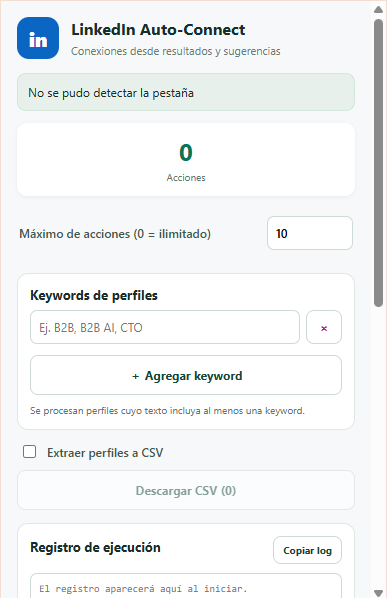
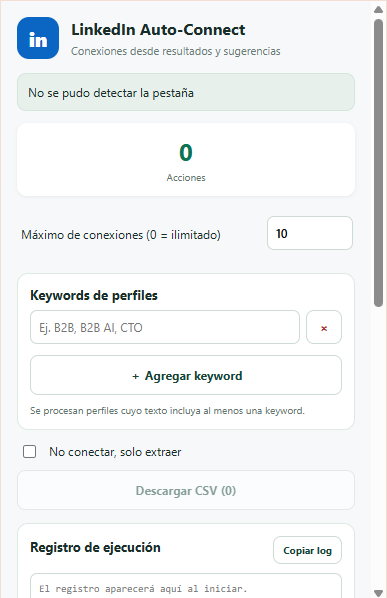
Make CSV extraction default with extract-only mode

Changed region(s): [[0.031, 0.3612, 0.5891, 0.4214], [0.124, 0.7224, 0.4651, 0.7826]]

diff --git a/popup.js b/popup.js
@@ -1,9 +1,9 @@
 const els = {
   page: document.getElementById("page"), status: document.getElementById("status"),
-  total: document.getElementById("total"),
+  total: document.getElementById("total"), progressLabel: document.getElementById("progressLabel"), limitLabel: document.getElementById("limitLabel"),
   limit: document.getElementById("limit"), start: document.getElementById("start"), stop: document.getElementById("stop"),
   keywords: document.getElementById("keywords"), addKeyword: document.getElementById("addKeyword"),
-  extractCsv: document.getElementById("extractCsv"), downloadCsv: document.getElementById("downloadCsv"),
+  extractOnly: document.getElementById("extractOnly"), downloadCsv: document.getElementById("downloadCsv"),
   logOutput: document.getElementById("logOutput"), copyLog: document.getElementById("copyLog")
 };
 const setStatus = (message) => { els.status.textContent = message; };
@@ -18,7 +18,7 @@ function addKeywordRow(value = "") {
 function saveSettings() {
   chrome.storage.local.set({ ceoAutoSettings: {
     keywords: [...els.keywords.querySelectorAll("input")].map((i) => i.value.trim()).filter(Boolean),
-    extractCsv: els.extractCsv.checked, limit: els.limit.value
+    extractOnly: els.extractOnly.checked, limit: els.limit.value
   } });
 }
 chrome.storage.local.get("ceoAutoSettings", ({ ceoAutoSettings: s = {} }) => {
@@ -26,11 +26,16 @@ chrome.storage.local.get("ceoAutoSettings", ({ ceoAutoSettings: s = {} }) => {
     s.keywords[0].toLowerCase() === "ceo" && s.keywords[1].toLowerCase() === "founder";
   if (legacyDefaults) { s.keywords = []; chrome.storage.local.set({ ceoAutoSettings: s }); }
   (s.keywords?.length ? s.keywords : [""]).forEach(addKeywordRow);
-  els.extractCsv.checked = !!s.extractCsv;
+  els.extractOnly.checked = !!s.extractOnly;
+  updateProgressLabel();
   if (s.limit !== undefined) els.limit.value = s.limit;
 });
 els.addKeyword.addEventListener("click", () => { addKeywordRow(); els.keywords.lastElementChild.querySelector("input").focus(); saveSettings(); });
-els.extractCsv.addEventListener("change", saveSettings); els.limit.addEventListener("change", saveSettings);
+function updateProgressLabel() {
+  els.progressLabel.textContent = els.extractOnly.checked ? "Perfiles extraídos" : "Conexiones";
+  els.limitLabel.textContent = els.extractOnly.checked ? "Máximo de perfiles (0 = ilimitado)" : "Máximo de conexiones (0 = ilimitado)";
+}
+els.extractOnly.addEventListener("change", () => { saveSettings(); updateProgressLabel(); }); els.limit.addEventListener("change", saveSettings);
 
 async function checkPage() {
   try {
@@ -46,12 +51,12 @@ async function runOnPage(func, args = []) {
   const results = await chrome.scripting.executeScript({ target: { tabId: tab.id }, func, args }); return results?.[0]?.result;
 }
 
-function startAutomation(maxActions, keywords, extractCsv) {
+function startAutomation(maxActions, keywords, extractOnly) {
   if (window.__ceoAutoFollow?.running) return { started: false };
   const state = { running: true, stopped: false, count: 0, max: maxActions, rows: [], logs: [], message: "Preparando resultados…" };
   window.__ceoAutoFollow = state;
   const log = (message) => { state.logs.push(`${new Date().toLocaleTimeString()} ${message}`); if (state.logs.length > 250) state.logs.splice(0, state.logs.length - 250); };
-  log(`Inicio · página ${location.href} · keywords: ${keywords.join(", ")} · CSV: ${extractCsv ? "sí" : "no"}`);
+  log(`Inicio · página ${location.href} · keywords: ${keywords.join(", ")} · CSV: sí · modo=${extractOnly ? "solo extraer" : "conectar y extraer"}`);
   const normalized = keywords.map((k) => k.toLocaleLowerCase()).filter(Boolean);
   const clicked = new WeakSet(); const seenProfiles = new Set(); const sleep = (ms) => new Promise((r) => setTimeout(r, ms));
   const visible = (el) => { const r = el.getBoundingClientRect(), s = getComputedStyle(el); return r.width > 0 && r.height > 0 && s.visibility !== "hidden" && s.display !== "none"; };
@@ -219,7 +224,7 @@ function startAutomation(maxActions, keywords, extractCsv) {
     return false;
   };
   const extractRow = (card, text, href) => {
-    if (!extractCsv || !href || state.rows.some((r) => r.link === href)) return;
+    if (!href || state.rows.some((r) => r.link === href)) return;
     const anchors = [...card.querySelectorAll("a[href*='/in/']")];
     const name = (anchors.find((a) => a.href.split("?")[0] === href)?.innerText || "").trim().split("\n")[0];
     const lines = text.split("\n").map((x) => x.trim()).filter(Boolean);
@@ -279,7 +284,8 @@ function startAutomation(maxActions, keywords, extractCsv) {
       if (showAll) { showAll.click(); await sleep(1200); log("Expandido Show all antes de recorrer tarjetas."); }
       let idle = 0, bottomRounds = 0;
       const noConnectLogged = new Set();
-      while (!state.stopped && (state.max === 0 || state.count < state.max)) {
+      const limitReached = () => state.max > 0 && (extractOnly ? state.rows.length >= state.max : state.count >= state.max);
+      while (!state.stopped && !limitReached()) {
         if (checkLimits()) break;
         const exactContactCards = [...document.querySelectorAll(contactCardSelector)];
         const cards = isSearch && exactContactCards.length
@@ -291,7 +297,7 @@ function startAutomation(maxActions, keywords, extractCsv) {
         log(`Escaneo · ${cards.length} contenedores de ficha detectados; inspeccionando coincidencias visibles.`);
         let didAction = false;
         for (const card of cards) {
-          if (state.stopped || (state.max && state.count >= state.max)) break;
+          if (state.stopped || limitReached()) break;
           const text = getCardText(card), keywordText = getKeywordText(card), normalizedText = keywordText.toLocaleLowerCase();
           if (!keywordText.trim()) continue;
           const matchedKeyword = normalized.find((word) => normalizedText.includes(word.toLocaleLowerCase()));
@@ -299,6 +305,14 @@ function startAutomation(maxActions, keywords, extractCsv) {
           const href = profileHref(card);
           log(`Coincidencia · keyword="${matchedKeyword}" · titular/cargo/Current="${keywordText.replace(/\s+/g, " ").slice(0, 180)}" · perfil=${href || "sin enlace"}`);
           if (href && !state.rows.some((r) => r.link === href)) extractRow(card, text, href);
+          if (extractOnly) {
+            if (href && state.rows.some((r) => r.link === href)) {
+              state.message = `Perfil extraído · ${state.rows.length}${state.max ? ` de ${state.max}` : ""}`;
+              log(`Solo extracción · perfil agregado al CSV · total=${state.rows.length}${state.max ? `/${state.max}` : ""}.`);
+            } else log("Solo extracción · ficha coincidente sin enlace de perfil; no se pudo agregar al CSV.");
+            if (limitReached()) break;
+            continue;
+          }
           if (href && seenProfiles.has(href)) continue;
           const control = getActionControl(card, cards.indexOf(card), cards);
           if (!control) {
@@ -347,8 +361,12 @@ function startAutomation(maxActions, keywords, extractCsv) {
         }
         if (idle >= 8 && !isSearch && scroll.atBottom) { state.message = "No hay más acciones visibles por ahora."; log(state.message); idle = 0; await sleep(2200); }
       }
-      if (!state.stopped && (state.max === 0 || state.count < state.max) && !/No se encontró/.test(state.message)) state.message = `Límite alcanzado: ${state.count} acciones.`;
-      else if (state.max && state.count >= state.max) state.message = `Límite alcanzado: ${state.count} acciones.`;
+      if (!state.stopped && limitReached()) state.message = extractOnly
+        ? `Límite alcanzado: ${state.rows.length} perfiles extraídos.`
+        : `Límite alcanzado: ${state.count} conexiones.`;
+      else if (!state.stopped && !/No se encontró/.test(state.message)) state.message = extractOnly
+        ? `Extracción finalizada: ${state.rows.length} perfiles.`
+        : `Conexiones finalizadas: ${state.count}.`;
     } catch (e) { state.message = `Se detuvo por un error: ${e?.message || "desconocido"}`; log(`ERROR · ${e?.stack || e?.message || String(e)}`); }
     finally { state.running = false; log(`Fin · ${state.message} · acciones=${state.count} · CSV=${state.rows.length}`); }
   })();
@@ -358,7 +376,7 @@ function stopAutomation() { const s = window.__ceoAutoFollow; if (!s) return { r
 function getAutomationStatus() { const s = window.__ceoAutoFollow; return s ? { running: s.running, count: s.count, rows: s.rows, logs: s.logs, message: s.message } : null; }
 async function refreshStatus() {
   try { const s = await runOnPage(getAutomationStatus); if (!s) return;
-    els.total.textContent = s.count;
+    els.total.textContent = els.extractOnly.checked ? (s.rows?.length || 0) : s.count;
     els.downloadCsv.textContent = `Descargar CSV (${s.rows?.length || 0})`; els.downloadCsv.disabled = !(s.rows?.length);
     const logText = (s.logs || []).join("\n");
     if (els.logOutput.value !== logText) { const wasAtBottom = els.logOutput.scrollTop + els.logOutput.clientHeight >= els.logOutput.scrollHeight - 8; els.logOutput.value = logText; if (wasAtBottom) els.logOutput.scrollTop = els.logOutput.scrollHeight; }
@@ -370,7 +388,7 @@ els.start.addEventListener("click", async () => {
   const keywords = [...els.keywords.querySelectorAll("input")].map((i) => i.value.trim()).filter(Boolean);
   if (!keywords.length) { setStatus("Agrega al menos una keyword para iniciar."); return; }
   saveSettings(); els.start.disabled = true; setStatus("Iniciando la búsqueda…");
-  try { const result = await runOnPage(startAutomation, [max, keywords, els.extractCsv.checked]);
+  try { const result = await runOnPage(startAutomation, [max, keywords, els.extractOnly.checked]);
     setStatus(result?.started ? "Automatización iniciada." : "La automatización ya está en marcha."); els.stop.disabled = false;
   } catch { setStatus("No se pudo iniciar. Abre LinkedIn y vuelve a intentarlo."); els.start.disabled = false; }
 });

diff --git a/popup.html b/popup.html
@@ -14,9 +14,9 @@
     </header>
     <div class="page" id="page">Comprobando pestaña…</div>
     <section class="stats" aria-label="Progreso de automatización">
-      <div><b id="total">0</b><span>Acciones</span></div>
+      <div><b id="total">0</b><span id="progressLabel">Conexiones</span></div>
     </section>
-    <label class="limit" for="limit">Máximo de acciones (0 = ilimitado)
+    <label class="limit" for="limit"><span id="limitLabel">Máximo de conexiones (0 = ilimitado)</span>
       <input id="limit" type="number" min="0" step="1" value="10" />
     </label>
     <section class="info keyword-config">
@@ -25,7 +25,7 @@
       <button id="addKeyword" class="secondary add-keyword" type="button">＋ Agregar keyword</button>
       <small>Se procesan perfiles cuyo texto incluya al menos una keyword.</small>
     </section>
-    <label class="csv-option"><input id="extractCsv" type="checkbox" /> Extraer perfiles a CSV</label>
+    <label class="csv-option"><input id="extractOnly" type="checkbox" /> No conectar, solo extraer</label>
     <button id="downloadCsv" class="secondary" type="button" disabled>Descargar CSV (0)</button>
     <section class="info log-panel">
       <div class="log-heading"><h2>Registro de ejecución</h2><button id="copyLog" type="button" class="copy-log">Copiar log</button></div>
@@ -43,7 +43,7 @@
       <ol>
         <li>Abre <strong>My Network → Grow</strong> o una búsqueda de personas y pulsa <strong>Iniciar</strong>.</li>
         <li>En resultados de búsqueda avanzará a la página siguiente cuando termine la actual.</li>
-        <li>Define un máximo de acciones; usa <strong>0</strong> para continuar hasta detenerla.</li>
+        <li>Define un máximo de conexiones o perfiles extraídos; usa <strong>0</strong> para continuar hasta detenerla.</li>
         <li>Usa <strong>Detener</strong> para finalizar en cualquier momento.</li>
       </ol>
     </section>

diff --git a/README.md b/README.md
@@ -1,6 +1,6 @@
 # LinkedIn Auto-Connect Chrome Extension
 
-A Chrome extension for reviewing LinkedIn people-search results and My Network suggestions. Configure the profile keywords in the popup, set an action limit, and let the extension process matching profiles.
+A Chrome extension for reviewing LinkedIn people-search results and My Network suggestions. Configure profile keywords and a connection or extraction limit in the popup.
 
 > Independent community project. Not affiliated with, endorsed by, or sponsored by LinkedIn.
 
@@ -24,14 +24,15 @@ A Chrome extension for reviewing LinkedIn people-search results and My Network s
 - Clicks **Connect** only. Profiles marked **Pending**, **Follow**, or **Message** are logged and skipped.
 - If LinkedIn asks whether to add a note, selects **Send without a note** and continues.
 - Scrolls through people-search results and advances to the next page when the current results are exhausted.
-- Set a maximum number of connection actions; enter `0` for unlimited processing.
-- Optionally collect matching profile names, categories, locations, and LinkedIn links into a downloadable CSV.
+- Matching profile names, categories, locations, and LinkedIn links are collected for CSV export by default.
+- Enable **No conectar, solo extraer** to collect profiles without sending connection invitations. The configured limit then counts extracted profiles.
+- Set a maximum number of connections or extracted profiles; enter `0` for unlimited processing.
 - View and copy the activity log from the popup.
 - Stops when LinkedIn displays its weekly connection invitation limit.
 
 ## Privacy and permissions
 
-The extension uses `activeTab` and `scripting` to interact with the LinkedIn tab after you start it, and `storage` to remember your popup settings. CSV data is collected from visible LinkedIn result cards and downloaded locally when you request it; the extension does not upload it to a server.
+The extension uses `activeTab` and `scripting` to interact with the LinkedIn tab after you start it, and `storage` to remember your popup settings. Matching profile data is collected from LinkedIn result cards and downloaded locally when you request the CSV; the extension does not upload it to a server.
 
 ## Important
 
@@ -46,8 +47,9 @@ Extensión de Chrome para revisar resultados de búsqueda de personas y sugerenc
 - Pulsa únicamente **Connect**. Registra y omite perfiles con estado **Pending**, **Follow** o **Message**.
 - Si LinkedIn pregunta si quieres agregar una nota, pulsa **Send without a note** y continúa.
 - Desplaza los resultados y avanza a la página siguiente al terminar la actual.
-- Define un máximo de conexiones; `0` significa ilimitado.
-- Si marcas la casilla de CSV, permite descargar nombre, categoría, ubicación y enlace de los perfiles coincidentes.
+- Recopila nombre, categoría, ubicación y enlace de perfiles coincidentes para exportarlos a CSV.
+- Activa **No conectar, solo extraer** para no enviar invitaciones. En ese modo, el límite cuenta perfiles extraídos.
+- Define un máximo de conexiones o perfiles extraídos; `0` significa ilimitado.
 - Muestra un registro de actividad que puedes copiar desde la interfaz.
 - Se detiene si LinkedIn muestra el límite semanal de invitaciones.
 
